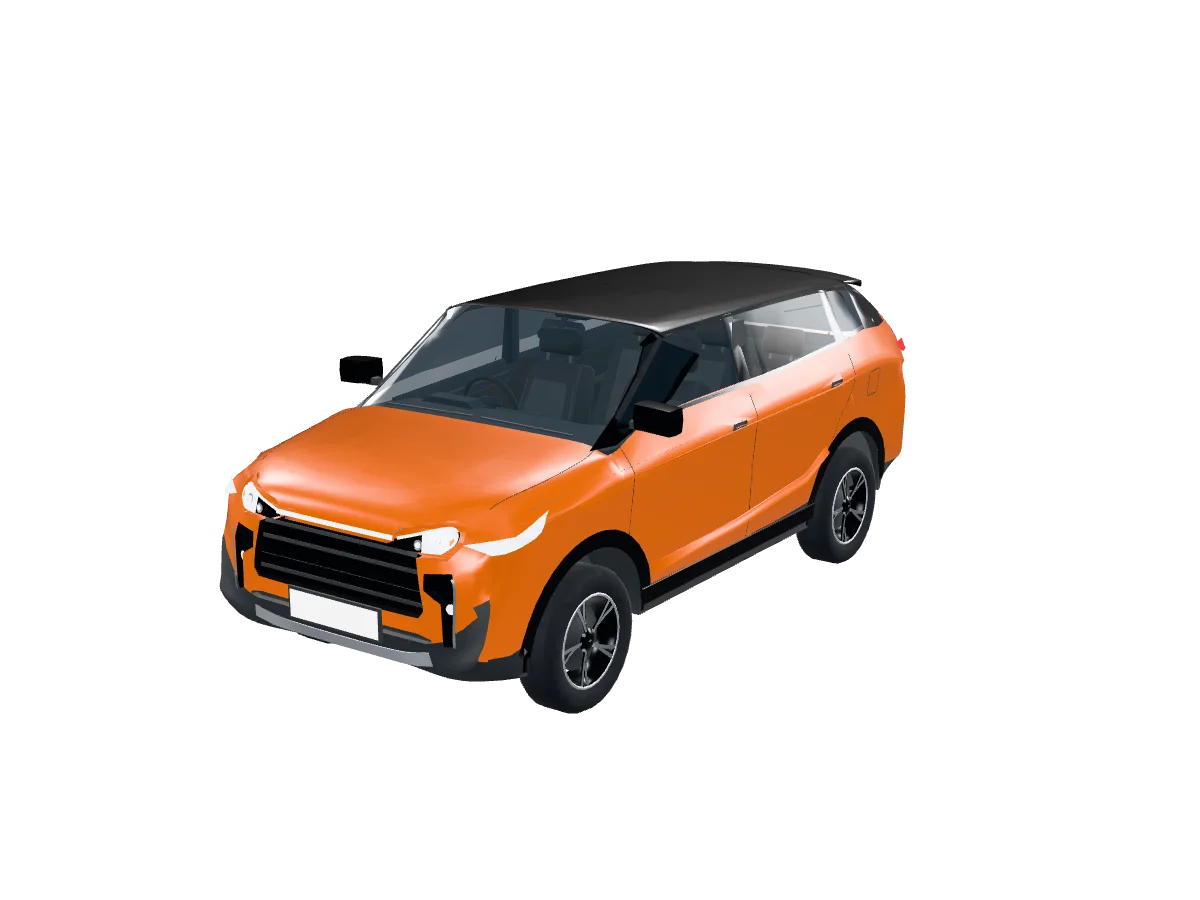
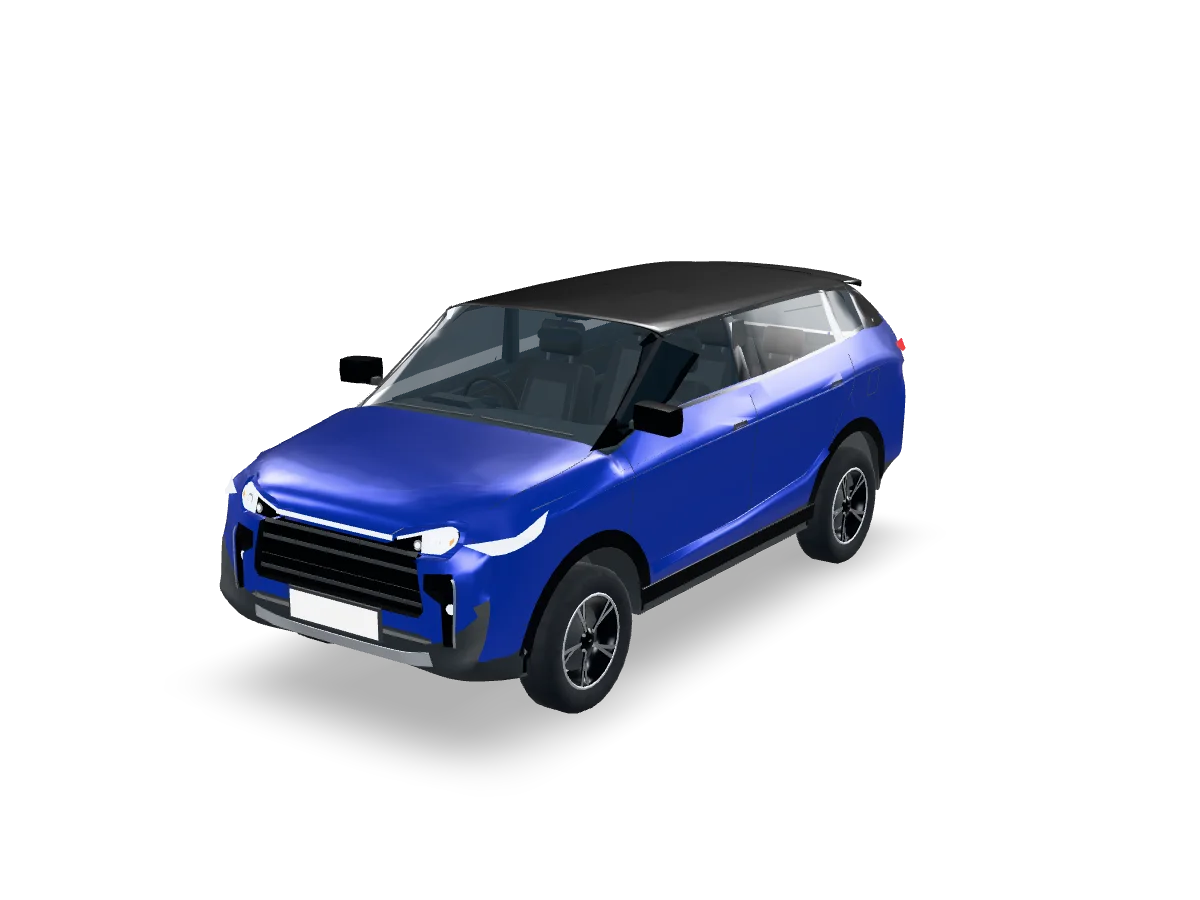
Factory colour chips for the eight cars
- Each car lists the colours it was sold in in Malaysia, with the
  maker's names, from Proton's and Perodua's own colour pages and
  brochures; the chips are close matches sampled from their swatches.
- The model page shows them as paint chips that repaint the viewer's
  "paint" material; arrow keys move through them.
- Each car's viewer file and poster now start in one of its real
  colours (source.paint must be one of them); rebuilt from KL Rush
  at e041f0f3, which changed only the eight car files.
- npm run check clicks a chip and checks the paint colour.

Changed region(s): [[0.185, 0.3422, 0.7708, 0.8711]]

diff --git a/site/styles.css b/site/styles.css
@@ -456,6 +456,30 @@ button, input { font: inherit; color: inherit; }
 }
 .view-actions button:hover { --face: #45484c; }
 .no-webgl .stage-controls { display: none; }
+/* A car's factory colours: paint chips on a small asphalt plate at the stage's bottom right */
+.paints {
+  --ring: var(--yellow);
+  position: absolute;
+  right: 0;
+  bottom: 0;
+  max-width: min(100%, 380px);
+  margin: 0;
+  padding: 10px 16px 14px;
+  border: 0;
+  border-radius: 6px;
+  background: var(--asphalt);
+  box-shadow: inset 0 0 0 3px var(--asphalt), inset 0 0 0 5px var(--sheet), 0 4px 10px rgb(0 0 0 / 0.25);
+  color: var(--sheet);
+}
+.paints legend { float: left; width: 100%; padding: 0 0 10px; font-size: 0.8125rem; font-weight: 700; }
+.paint-name { margin-left: 4px; font-weight: 800; }
+.chips { clear: left; display: flex; flex-wrap: wrap; gap: 12px; }
+.paints label { position: relative; display: block; cursor: pointer; }
+.paints input { position: absolute; inset: 0; width: 100%; height: 100%; margin: 0; opacity: 0; cursor: pointer; }
+.chip { display: block; width: 30px; height: 30px; border-radius: 50%; background: var(--chip); box-shadow: 0 0 0 2px var(--sheet); transition: box-shadow 200ms var(--ease); }
+.paints input:checked + .chip { box-shadow: 0 0 0 3px var(--asphalt), 0 0 0 6px var(--sheet); }
+.paints input:focus-visible + .chip { outline: 3px solid var(--ring); outline-offset: 8px; }
+.no-webgl .paints { display: none; }
 .nameplate { display: flex; margin-top: 30px; padding-right: 260px; }
 .nameplate .attraction { --margin: 6px; --line: 3px; position: relative; padding: 14px 16px 14px 20px; gap: 14px; border-radius: 10px; }
 .nameplate .attraction::before { content: ''; position: absolute; left: 44px; bottom: 100%; width: 10px; height: 30px; background: linear-gradient(90deg, #8d9297, #c3c7cb 45%, #8d9297); pointer-events: none; }
@@ -544,6 +568,7 @@ button, input { font: inherit; color: inherit; }
   .exit-count { display: none; }
   .roadside { grid-template-columns: 1fr; }
   .stage-controls { position: static; flex-direction: row; justify-content: flex-end; margin-top: 10px; }
+  .paints { position: static; width: fit-content; margin: 10px 0 0 auto; }
   .nameplate { padding-right: 0; margin-top: 26px; }
   .roadside .facts { grid-row: auto; }
   .facts dl { grid-template-columns: 1fr 1fr; }

diff --git a/site/site.js b/site/site.js
@@ -54,3 +54,17 @@ for (const button of document.querySelectorAll('[data-orbit]')) button.addEventL
   viewer.cameraTarget = 'auto auto auto';
   viewer.fieldOfView = 'auto';
 });
+
+// A car's paint chips repaint the material scripts/import-kl-rush.mjs names "paint"; a hex string is read as sRGB.
+const paints = document.querySelector('.paints');
+if (paints) {
+  const viewer = document.querySelector('.scene model-viewer');
+  const paint = () => { // also on load, so a chip the browser restored on reload or Back is applied too
+    const chosen = paints.querySelector(':checked');
+    paints.querySelector('.paint-name').textContent = chosen.parentElement.title;
+    viewer.model?.materials.find((m) => m.name === 'paint')?.pbrMetallicRoughness.setBaseColorFactor(chosen.value);
+  };
+  paints.hidden = false;
+  paints.addEventListener('change', paint);
+  viewer.addEventListener('load', paint);
+}

diff --git a/README.md b/README.md
@@ -46,6 +46,7 @@ Status: the site is a private review (noindex) until the release gate below pass
 | `viewer` | GLB shown in the viewer, plus the `<model-viewer>` `camera-orbit` used for the default view and the poster. |
 | `downloads` | Files offered for download. `from` names a folder zipped into `file` at build time. `"unpack": true` writes `file` from the viewer GLB with meshopt and quantization decoded and KTX2 textures turned into PNG, so any glTF tool opens it; the licence goes in its `asset.copyright`. An empty list makes the model view-only. |
 | `source` | Optional. Where `npm run import` takes the viewer file from: `repo` (`kl-rush`), the `commit` the checkout must be at, and one of `file` (a path under KL Rush's `public/content/`), `car` (a type under `public/content/vehicles/`, assembled from its body, wheels and `rig.json`, with `paint` as a `#rrggbb` body colour from the game's showroom palette; the game's code-built car materials become glTF materials over its shared surface textures), or `builder` (`<file>#<export>`, a code-built landmark run in Chromium and saved with three.js `GLTFExporter`, in its daytime look). `scale` optionally scales a builder's model uniformly, e.g. to the real building's height. `note` records where the asset came from; it is never shown on the site. |
+| `paints` | Optional, for cars. The factory colours the real car is sold in, each `{ "name", "hex" }` with the maker's colour name and a close sRGB match. One must equal `source.paint`, which the viewer file and poster show. The model page offers them as paint chips that repaint the material named `paint`. |
 | `tile` | Optional. Modular piece and its repeat width for the tile check. |
 | `credits` | One entry per source: what it covers, who made it, an optional link, licence, whether that was verified, and a note. |
 

diff --git a/PRODUCT.md b/PRODUCT.md
@@ -35,7 +35,7 @@ Success, in the owner's words, is "loved to explore": people spend time turning 
 
 - **Build:** a static site built by `scripts/build.mjs` from `models/<slug>/model.json`. There is no framework and no bundler.
 - **Viewer:** `<model-viewer>` 4.4.0, with its meshopt and KTX2 decoders vendored. The site makes no requests to other origins.
-- **Model fields:** a catalogue id (`MY-###`), name, optional local name and its language, category, tags, summary, notes, and status (`review` or `approved`). Also a licence (`null` means pending), a viewer file with its default camera orbit, downloads (an empty list means view-only), credits, and a poster.
+- **Model fields:** a catalogue id (`MY-###`), name, optional local name and its language, category, tags, summary, notes, and status (`review` or `approved`). Also a licence (`null` means pending), a viewer file with its default camera orbit, downloads (an empty list means view-only), credits, and a poster. Cars also list their factory colours (`paints`), which visitors can switch between in the viewer (owner, 2026-11-09).
 - **Computed, never typed:** triangle count, file size and dimensions in metres.
 - **Downloads:** 25 models can be downloaded under CC BY 4.0 with the credit "Malaysia 3D Library" (owner, 2026-11-09): the food, kopitiam props, kampung house, wau, animals, workshop and shophouse. The 8 cars and 18 landmarks are view-only until the rights in their real designs are checked.
 - **Public gate:** the site can only go public when every model is approved, has a licence and verified credits, and has a poster.

diff --git a/DESIGN.md b/DESIGN.md
@@ -264,6 +264,9 @@ Green direction sign listing nearby objects across exits, each with a direction 
 ### Camera buttons (`.stage-controls`, `.hint`, `.view-actions button`)
 Small asphalt signs with a white border line (Front, Reset); hover lightens the face to #45484c.
 
+### Paint chips (`.paints`, `.paint-name`, `.chips`, `.chip`)
+Cars only. A small asphalt plate with the camera buttons' white border line, at the stage's bottom right (below the stage, right-aligned, under 860px). Its legend reads "Colour" and the chosen colour's name. Each factory colour is a 30px disc in that colour with a 2px white ring; the chosen one gets a detached ring (3px asphalt gap, 3px white). They are native radio inputs, so arrow keys move through them; focus shows the yellow ring 8px out. Choosing one repaints the viewer's `paint` material; the plate stays `hidden` until `site.js` runs, and is hidden without WebGL.
+
 ### Info board (`.info`, `.info-board`)
 Blue information board on two steel posts, max 44rem, carrying the about text and the stone hint.
 
